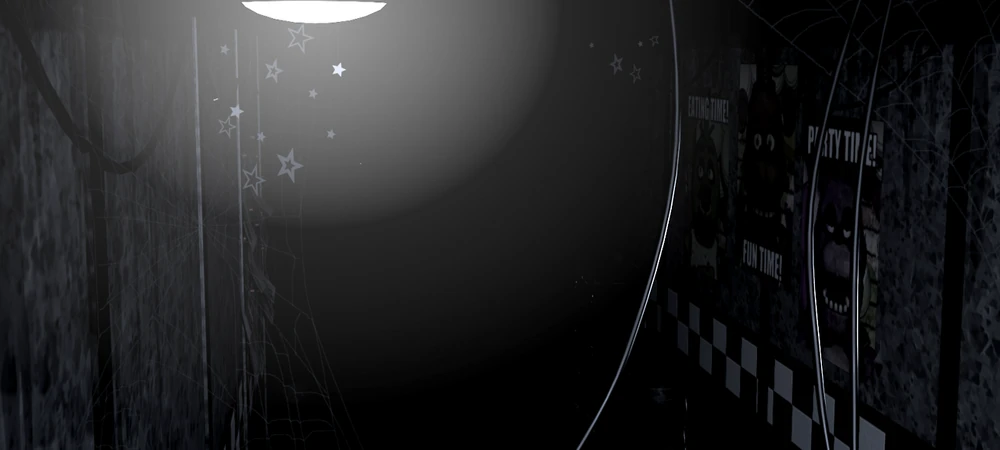
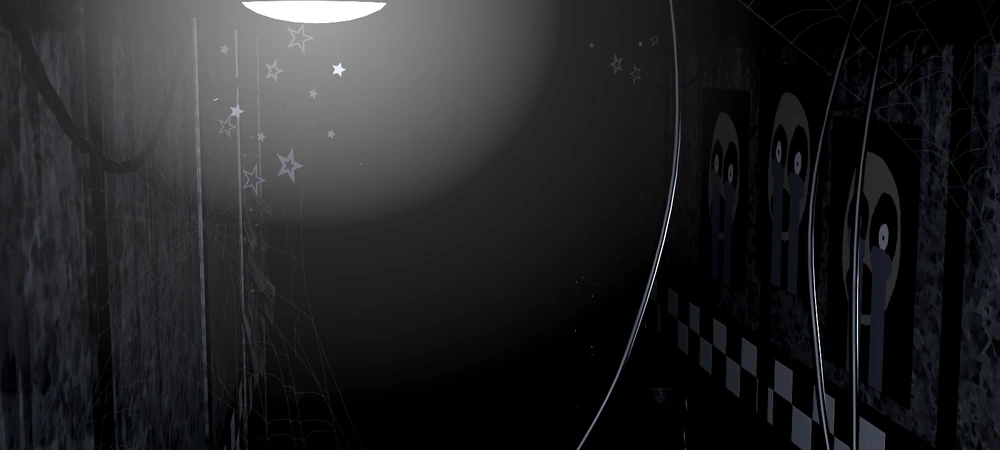
Cam 4B shows correct image

Changed region(s): [[0.713, 0.1556, 0.93, 0.8711], [0.682, 0.2178, 0.744, 0.28]]

diff --git a/code/app.js b/code/app.js
@@ -741,6 +741,9 @@ const getCameraImage = (cam) => {
         case '4A':
             camImageSrc = generateCamImage4A();
             break;
+        case '4B':
+            camImageSrc = generateCamImage4B();
+            break;
         case '5':
             camImageSrc = generateCamImage5();
             break;
@@ -801,6 +804,7 @@ const generateCamImage1A = () => {
 };
 // Bonnie is the only animatronic who can be here, and only has one image :)
 const generateCamImage3 = () => (getLocationInfo('3').bonnieIsHere ? '3-bonnie.webp' : '3-empty.webp');
+// Freddy or Chica may be here
 const generateCamImage4A = () => {
     const info = getLocationInfo('4A');
     if (info.chicaIsHere) {
@@ -812,15 +816,55 @@ const generateCamImage4A = () => {
     }
     // There are 3 image options for empty, with one of them being FAR more likely
     // than the others
-    let emptyRandomiser = Math.random() * 10;
-    if (emptyRandomiser > 9) {
-        return `4A-empty-3.webp`;
+    let emptyRandomiser = Math.ceil(Math.random() * 10);
+    if (emptyRandomiser === 1) {
+        return `4A-empty-1.webp`;
     }
-    else if (emptyRandomiser > 8) {
+    else if (emptyRandomiser === 2) {
         return `4A-empty-2.webp`;
     }
     else {
-        return '4A-empty-1.webp';
+        return '4A-empty-default.webp';
+    }
+};
+// Freddy or Chica may be here.
+const generateCamImage4B = () => {
+    let info = getLocationInfo('4B');
+    if (info.freddyIsAlone) {
+        return '4B-freddy.webp';
+    }
+    if (info.chicaIsHere) {
+        let chicaRandomiser = Math.ceil(Math.random() * 6);
+        if (chicaRandomiser === 1) {
+            return '4B-chica-3.webp';
+        }
+        else if (chicaRandomiser === 2) {
+            return '4B-chica-2.webp';
+        }
+        else {
+            return '4B-chica-1.webp';
+        }
+    }
+    // It must be empty if we've reached this point
+    // There are 5 image options here, with one being FAR more likely than the others
+    let emptyRandomiser = Math.ceil(Math.random() * 25);
+    if (emptyRandomiser === 1) {
+        return '4B-empty-4.webp';
+    }
+    else if (emptyRandomiser === 2) {
+        return '4B-empty-3.webp';
+    }
+    else if (emptyRandomiser === 3) {
+        return '4B-empty-3.webp';
+    }
+    else if (emptyRandomiser === 4) {
+        return '4B-empty-2.webp';
+    }
+    else if (emptyRandomiser === 5) {
+        return '4B-empty-1.webp';
+    }
+    else {
+        return '4B-empty-default.webp';
     }
 };
 // Bonnie is the only animatronic who can be here. There are 2 options for

diff --git a/code/app.ts b/code/app.ts
@@ -953,6 +953,9 @@ const getCameraImage = (cam: Camera) => {
     case '4A':
       camImageSrc = generateCamImage4A();
       break;
+    case '4B':
+      camImageSrc = generateCamImage4B();
+      break;
     case '5':
       camImageSrc = generateCamImage5();
       break;
@@ -1025,6 +1028,7 @@ const generateCamImage1A = (): string => {
 // Bonnie is the only animatronic who can be here, and only has one image :)
 const generateCamImage3 = (): string => (getLocationInfo('3').bonnieIsHere ? '3-bonnie.webp' : '3-empty.webp');
 
+// Freddy or Chica may be here
 const generateCamImage4A = (): string => {
   const info = getLocationInfo('4A');
 
@@ -1039,13 +1043,50 @@ const generateCamImage4A = (): string => {
 
   // There are 3 image options for empty, with one of them being FAR more likely
   // than the others
-  let emptyRandomiser = Math.random() * 10;
-  if (emptyRandomiser > 9) {
-    return `4A-empty-3.webp`;
-  } else if (emptyRandomiser > 8) {
+  let emptyRandomiser = Math.ceil(Math.random() * 10);
+  if (emptyRandomiser === 1) {
+    return `4A-empty-1.webp`;
+  } else if (emptyRandomiser === 2) {
     return `4A-empty-2.webp`;
   } else {
-    return '4A-empty-1.webp';
+    return '4A-empty-default.webp';
+  }
+};
+
+// Freddy or Chica may be here.
+const generateCamImage4B = (): string => {
+  let info = getLocationInfo('4B');
+
+  if (info.freddyIsAlone) {
+    return '4B-freddy.webp';
+  }
+
+  if (info.chicaIsHere) {
+    let chicaRandomiser = Math.ceil(Math.random() * 6);
+    if (chicaRandomiser === 1) {
+      return '4B-chica-3.webp';
+    } else if (chicaRandomiser === 2) {
+      return '4B-chica-2.webp';
+    } else {
+      return '4B-chica-1.webp';
+    }
+  }
+
+  // It must be empty if we've reached this point
+  // There are 5 image options here, with one being FAR more likely than the others
+  let emptyRandomiser = Math.ceil(Math.random() * 25);
+  if (emptyRandomiser === 1) {
+    return '4B-empty-4.webp';
+  } else if (emptyRandomiser === 2) {
+    return '4B-empty-3.webp';
+  } else if (emptyRandomiser === 3) {
+    return '4B-empty-3.webp';
+  } else if (emptyRandomiser === 4) {
+    return '4B-empty-2.webp';
+  } else if (emptyRandomiser === 5) {
+    return '4B-empty-1.webp';
+  } else {
+    return '4B-empty-default.webp';
   }
 };
 
